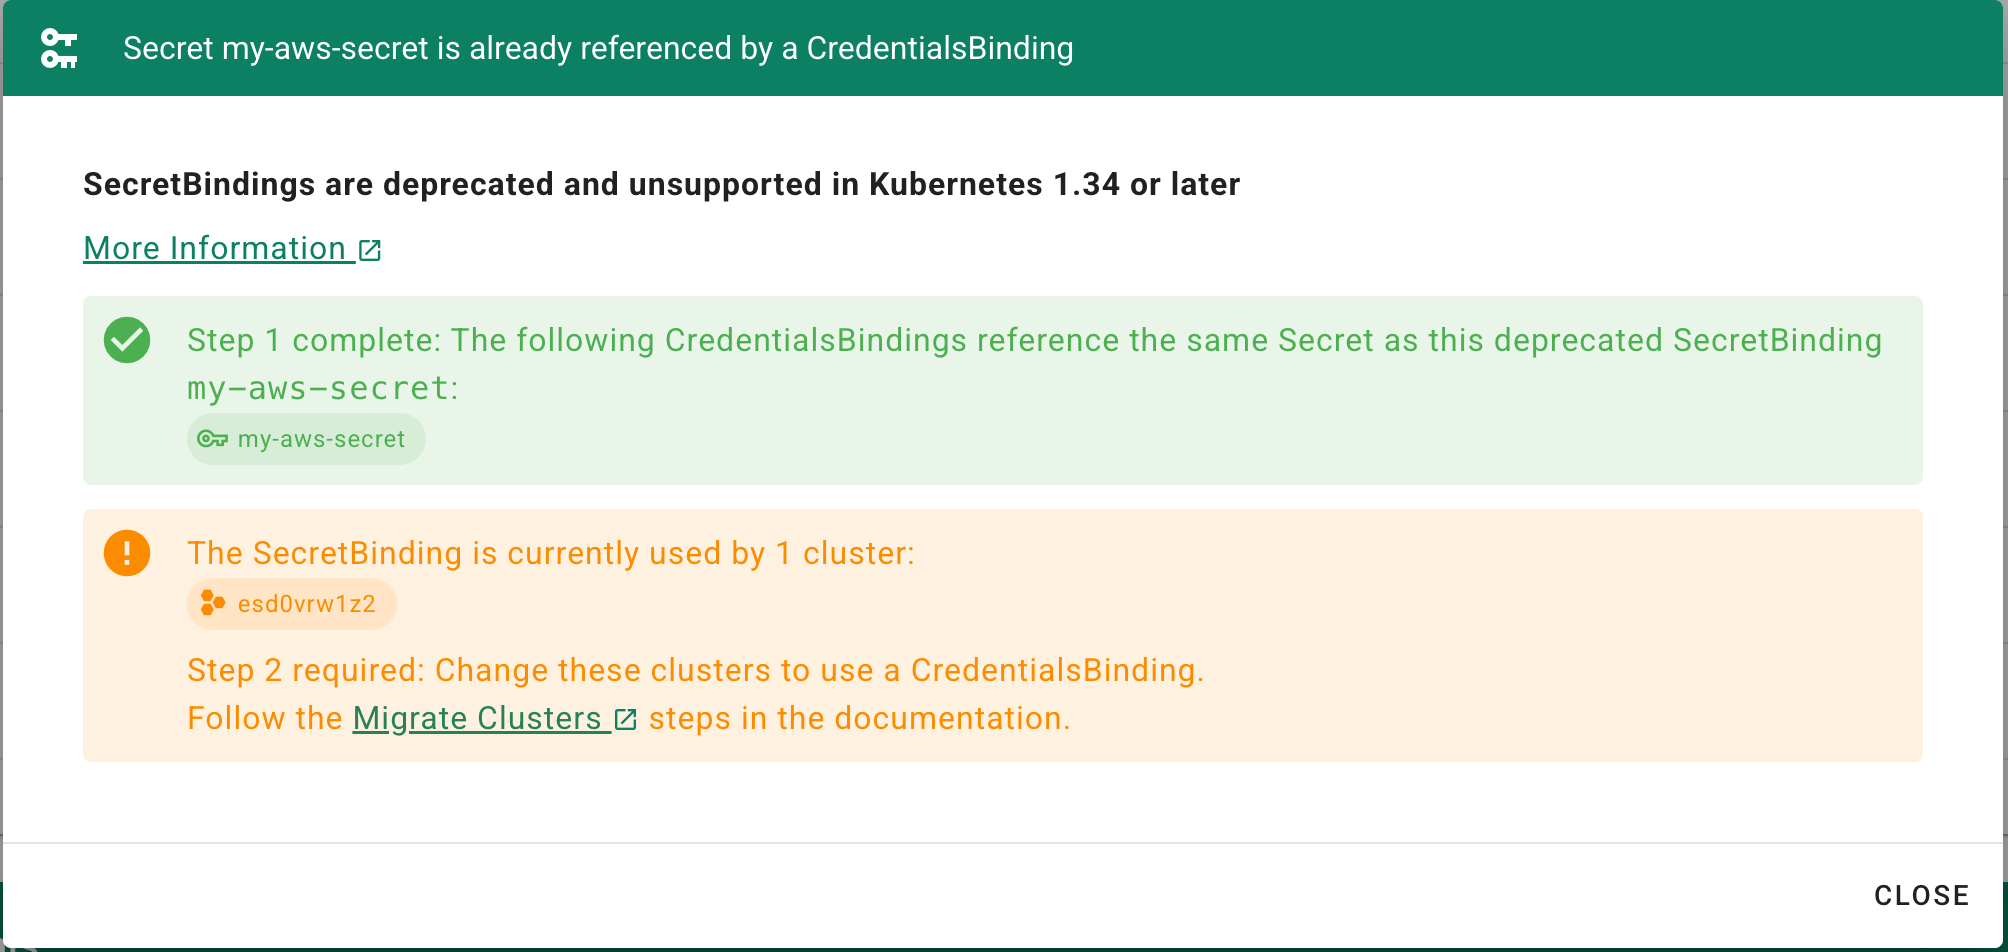
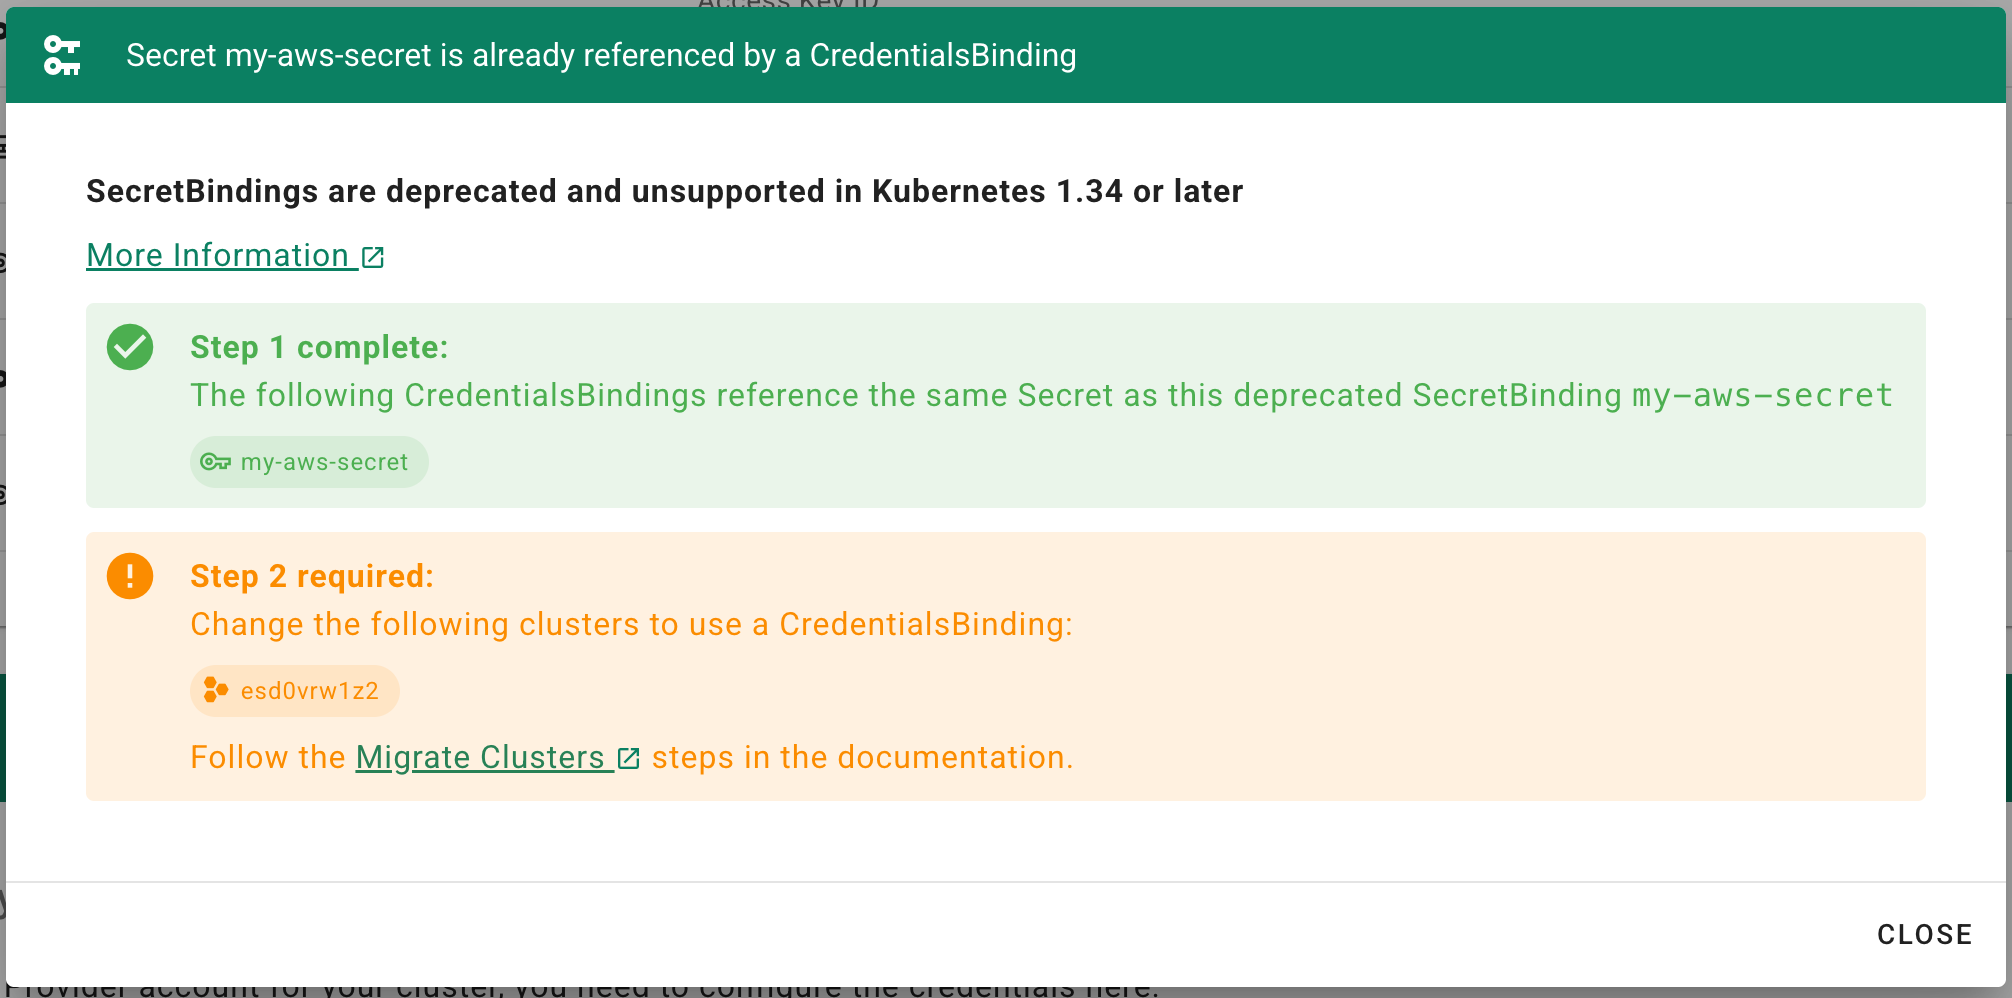
Optimize SecretBinding Migration Dialog

diff --git a/frontend/src/components/Credentials/GSecretDialogMigration.vue b/frontend/src/components/Credentials/GSecretDialogMigration.vue
@@ -94,24 +94,29 @@ SPDX-License-Identifier: Apache-2.0
           </template>
           <div
             v-else
-            class="list-style mt-3"
+            class="mt-3"
           >
             <v-alert
               type="success"
               variant="tonal"
             >
-              <p>
-                Step 1 complete: The following CredentialsBindings reference the same Secret as this deprecated SecretBinding <code>{{ secretName }}</code>:
+              <p class="font-weight-bold">
+                Step 1 complete:
               </p>
-              <v-chip
-                v-for="bindingName in credentialsBindingNamesForSecretBinding"
-                :key="bindingName"
-                class="mr-2"
-                size="small"
-                prepend-icon="mdi-key-outline"
-              >
-                {{ bindingName }}
-              </v-chip>
+              <p>
+                The following CredentialsBindings reference the same Secret as this deprecated SecretBinding <code>{{ secretName }}</code>
+              </p>
+              <p class="mt-2">
+                <v-chip
+                  v-for="bindingName in credentialsBindingNamesForSecretBinding"
+                  :key="bindingName"
+                  class="mr-2"
+                  size="small"
+                  prepend-icon="mdi-key-outline"
+                >
+                  {{ bindingName }}
+                </v-chip>
+              </p>
             </v-alert>
             <v-alert
               v-if="credentialUsageCount > 0"
@@ -119,25 +124,27 @@ SPDX-License-Identifier: Apache-2.0
               variant="tonal"
               class="mt-3"
             >
-              <p>
-                The SecretBinding is currently used by {{ credentialUsageCount }} cluster{{ credentialUsageCount === 1 ? '' : 's' }}:
+              <p class="font-weight-bold">
+                Step 2 required:
               </p>
-              <v-chip
-                v-for="{ metadata: { uid, name, namespace }} in shootsUsingThisCredential"
-                :key="uid"
-                v-tooltip:top="'Open Cluster Details'"
-                class="mr-2"
-                size="small"
-                prepend-icon="mdi-hexagon-multiple"
-                :to="{ name: 'ShootItem', params: { name, namespace } }"
-                target="_blank"
-              >
-                {{ name }}
-              </v-chip>
+              <p>
+                Change the following clusters to use a CredentialsBinding:
+              </p>
               <p class="mt-2">
-                Step 2 required: Change these clusters to use a CredentialsBinding.
+                <v-chip
+                  v-for="{ metadata: { uid, name, namespace }} in shootsUsingThisCredential"
+                  :key="uid"
+                  v-tooltip:top="'Open Cluster Details'"
+                  class="mr-2"
+                  size="small"
+                  prepend-icon="mdi-hexagon-multiple"
+                  :to="{ name: 'ShootItem', params: { name, namespace } }"
+                  target="_blank"
+                >
+                  {{ name }}
+                </v-chip>
               </p>
-              <p>
+              <p class="mt-2">
                 Follow
                 the
                 <g-external-link
